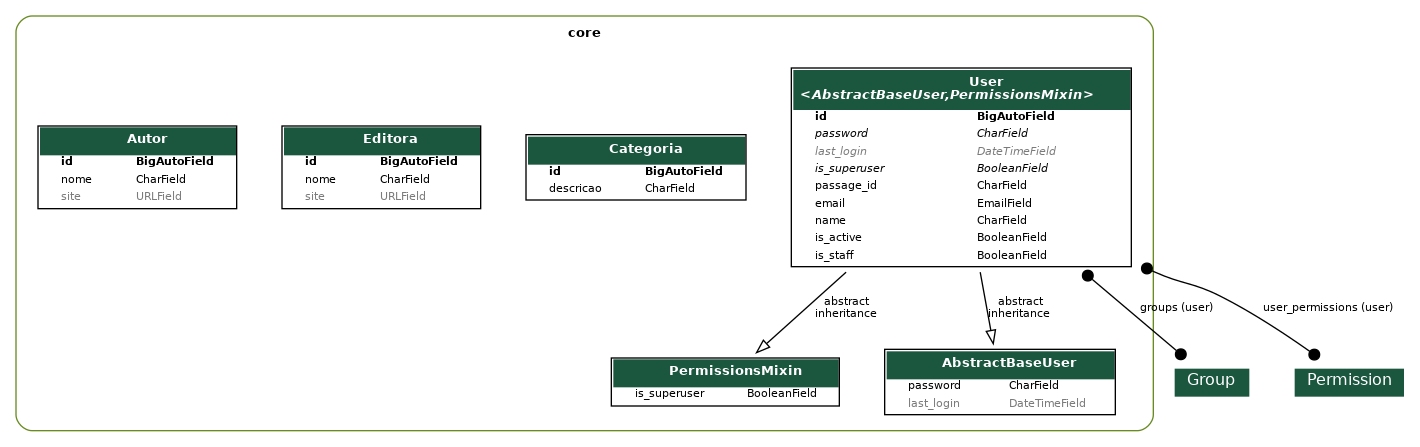
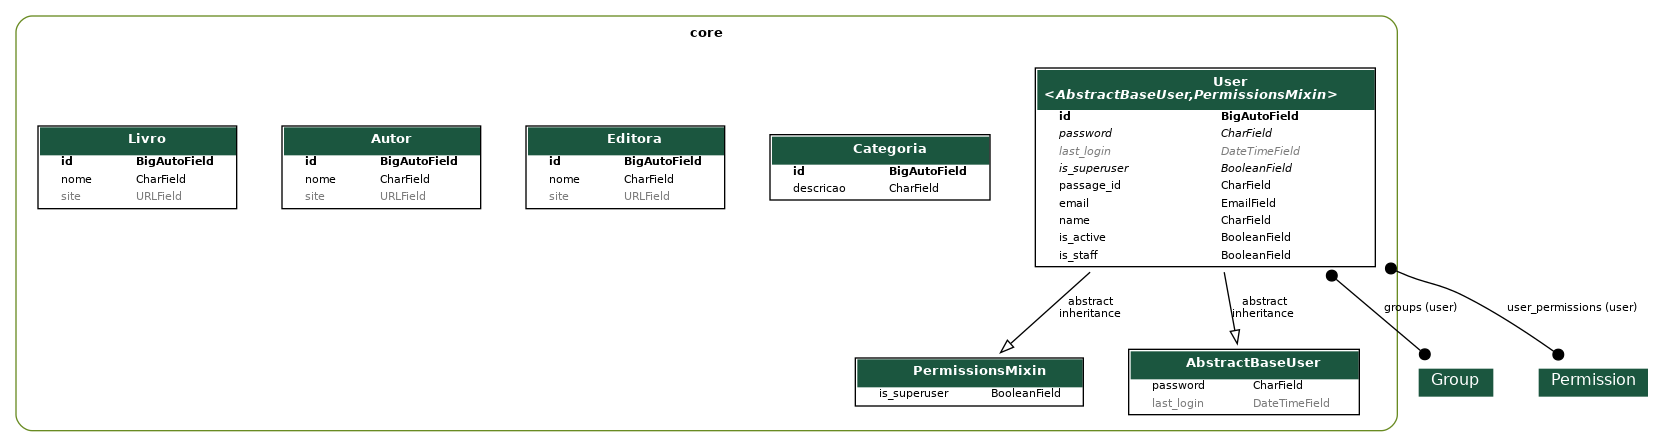
Criação da API para Livro

diff --git a/app/urls.py b/app/urls.py
@@ -12,12 +12,14 @@ from rest_framework_simplejwt.views import TokenObtainPairView, TokenRefreshView
 
 router = DefaultRouter()
 
-from core.views import UserViewSet, CategoriaViewSet, EditoraViewSet, AutorViewSet
+from core.views import UserViewSet, CategoriaViewSet, EditoraViewSet, AutorViewSet, LivroViewSet
 
 router.register(r"user", UserViewSet, basename="user")
 router.register(r"categorias", CategoriaViewSet, basename="categorias")
 router.register(r"editoras", EditoraViewSet, basename="editoras")
 router.register(r"autores", AutorViewSet, basename="autores")
+router.register(r"livros", LivroViewSet, basename="livros")
+
 
 
 

diff --git a/core/migrations/0005_livro.py b/core/migrations/0005_livro.py
@@ -1,0 +1,21 @@
+# Generated by Django 5.0.6 on 2024-08-16 17:39
+
+from django.db import migrations, models
+
+
+class Migration(migrations.Migration):
+
+    dependencies = [
+        ("core", "0004_autor"),
+    ]
+
+    operations = [
+        migrations.CreateModel(
+            name="Livro",
+            fields=[
+                ("id", models.BigAutoField(auto_created=True, primary_key=True, serialize=False, verbose_name="ID")),
+                ("nome", models.CharField(max_length=100)),
+                ("site", models.URLField(blank=True, null=True)),
+            ],
+        ),
+    ]

diff --git a/core/views/livro.py b/core/views/livro.py
@@ -1,0 +1,11 @@
+from rest_framework.viewsets import ModelViewSet
+
+from core.models import Categoria, Editora, Autor, Livro
+from core.serializers import CategoriaSerializer, EditoraSerializer, AutorSerializer, LivroSerializer
+
+...
+class LivroViewSet(ModelViewSet):
+    queryset = Livro.objects.all()
+    serializer_class = LivroSerializer
+
+    

diff --git a/core/serializers/livro.py b/core/serializers/livro.py
@@ -1,0 +1,8 @@
+from rest_framework.serializers import ModelSerializer
+
+from core.models import Categoria, Editora, Autor, Livro
+...
+class LivroSerializer(ModelSerializer):
+    class Meta:
+        model = Livro
+        fields = "__all__"

diff --git a/core/models/livro.py b/core/models/livro.py
@@ -1,0 +1,8 @@
+from django.db import models
+
+class Livro(models.Model):
+    nome = models.CharField(max_length=100)
+    site = models.URLField(max_length=200, blank=True, null=True)
+
+    def __str__(self):
+        return self.nome

diff --git a/core/admin.py b/core/admin.py
@@ -55,4 +55,5 @@ admin.site.register(models.User, UserAdmin)
 admin.site.register(models.Categoria)
 admin.site.register(models.Editora)
 admin.site.register(models.Autor)
+admin.site.register(models.Livro)
 

diff --git a/core/serializers/__init__.py b/core/serializers/__init__.py
@@ -2,3 +2,4 @@ from .user import UserSerializer
 from .categoria import CategoriaSerializer
 from .editora import EditoraSerializer
 from .autor import AutorSerializer
+from .livro import LivroSerializer

diff --git a/core/views/__init__.py b/core/views/__init__.py
@@ -2,3 +2,4 @@ from .user import UserViewSet
 from .categoria import CategoriaViewSet
 from .editora import EditoraViewSet
 from .autor import AutorViewSet
+from .livro import LivroViewSet

diff --git a/core/models/__init__.py b/core/models/__init__.py
@@ -2,3 +2,4 @@ from .user import User
 from .categoria import Categoria
 from .editora import Editora
 from .autor import Autor
+from .livro import Livro
